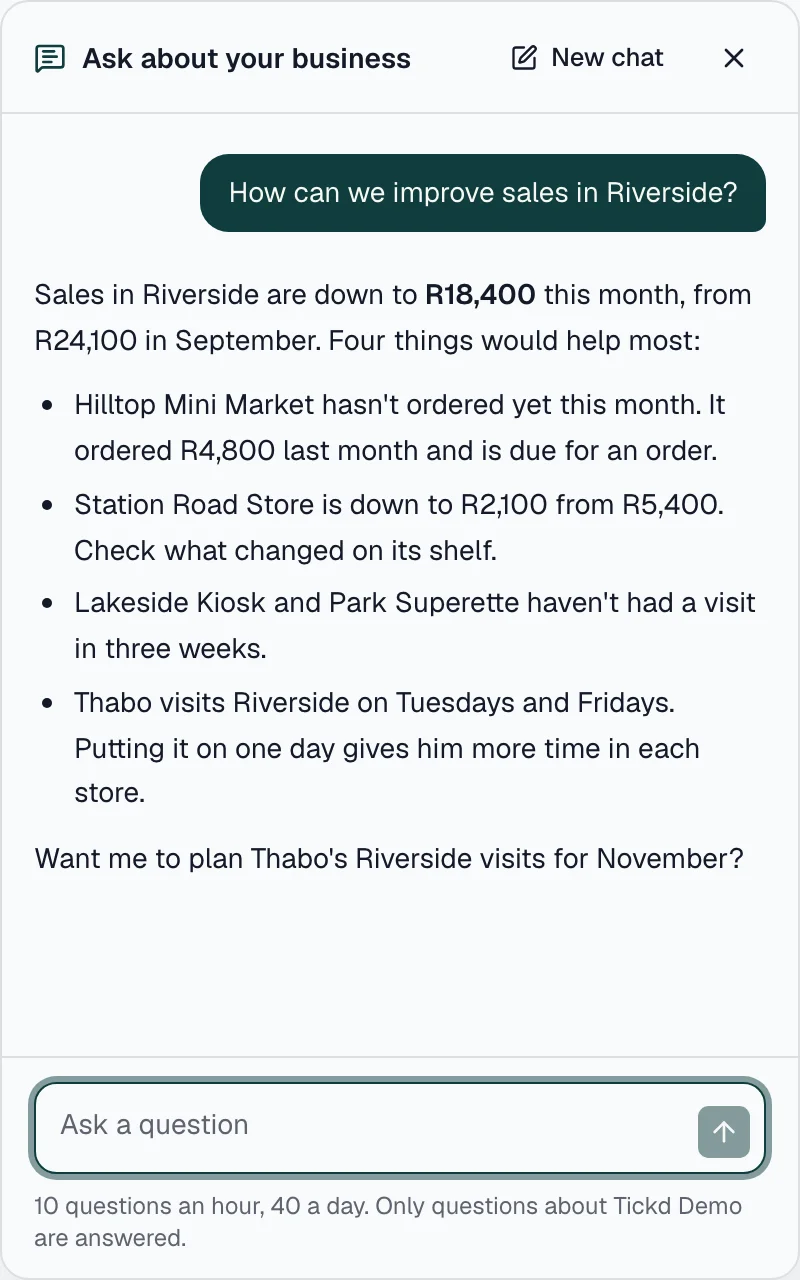
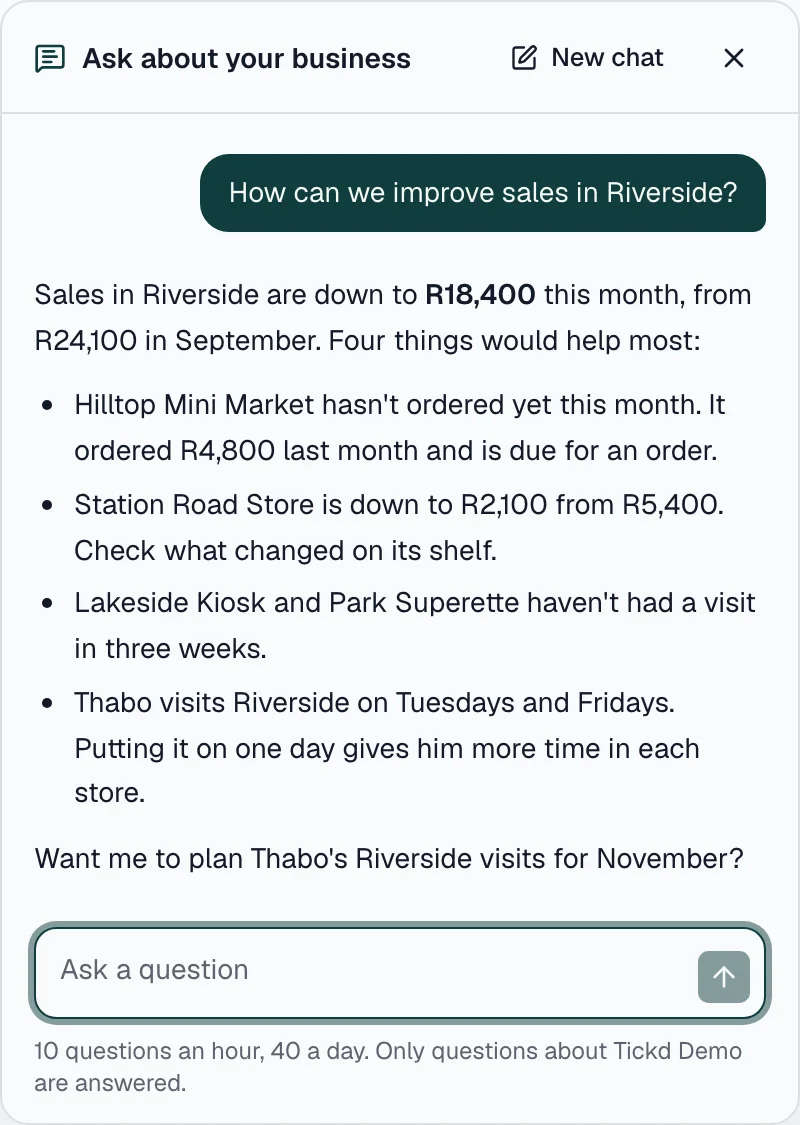
AI Manager picture: the empty space above the question box comes out (owner)

diff --git a/site/app/page.tsx b/site/app/page.tsx
@@ -341,7 +341,7 @@ export default function Home() {
               src="/demo/dash/site-ask-sales.webp"
               alt="The AI Manager answering “How can we improve sales in Riverside?”: sales are down to R18,400 from R24,100, a store that hasn't ordered and is due, a store that ordered less, two stores without a visit in three weeks, and putting Riverside on one day for the rep."
               width={800}
-              height={1280}
+              height={1125}
               className="mx-auto w-full max-w-sm"
             />
           </div>
